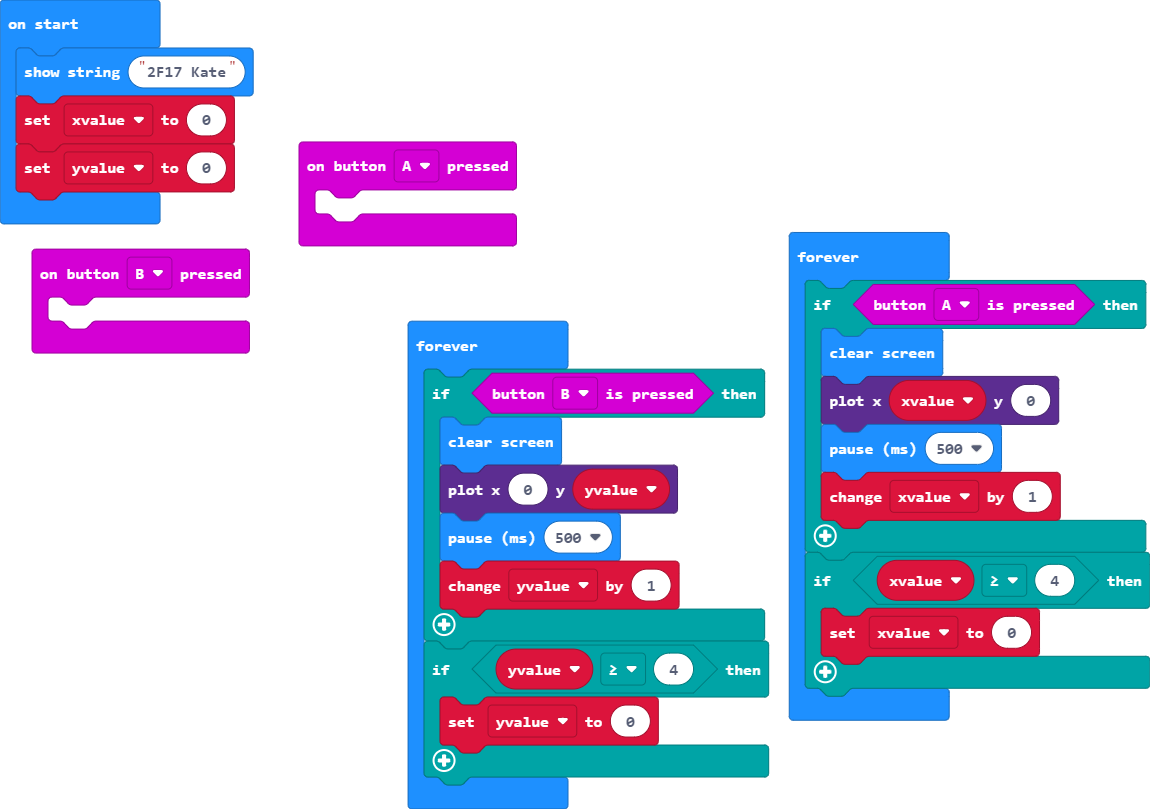
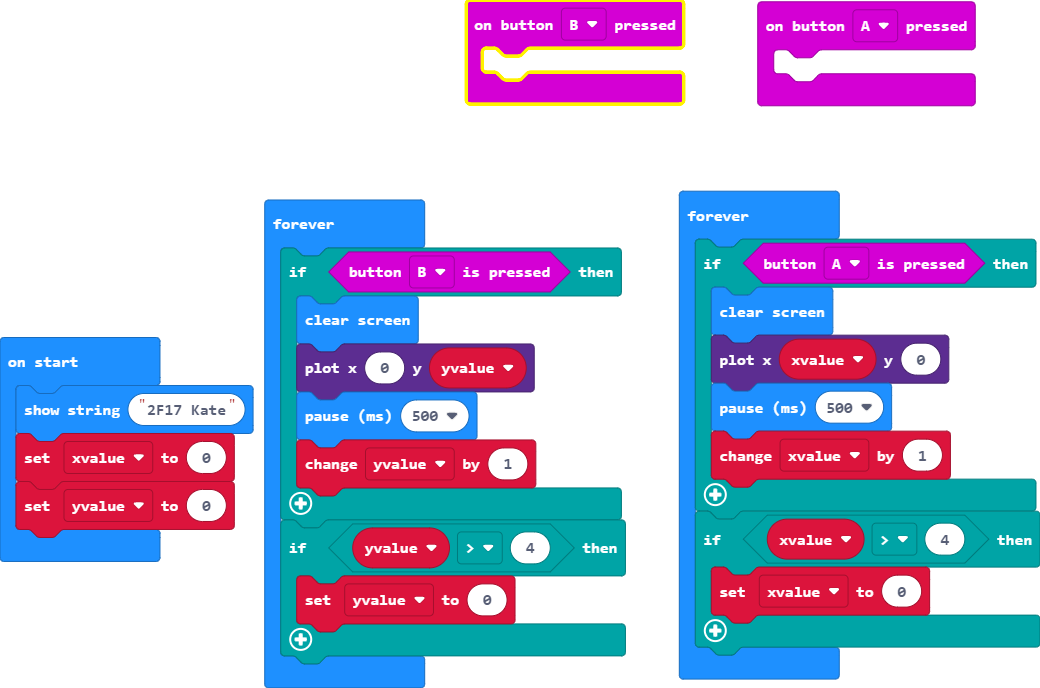
Update main.blocks, main.ts

diff --git a/main.ts b/main.ts
@@ -8,24 +8,24 @@ basic.showString("2F17 Kate")
 let xvalue = 0
 let yvalue = 0
 basic.forever(function () {
-    if (input.buttonIsPressed(Button.A)) {
-        basic.clearScreen()
-        led.plot(xvalue, 0)
-        basic.pause(500)
-        xvalue += 1
-    }
-    if (xvalue >= 4) {
-        xvalue = 0
-    }
-})
-basic.forever(function () {
     if (input.buttonIsPressed(Button.B)) {
         basic.clearScreen()
         led.plot(0, yvalue)
         basic.pause(500)
         yvalue += 1
     }
-    if (yvalue >= 4) {
+    if (yvalue > 4) {
         yvalue = 0
+    }
+})
+basic.forever(function () {
+    if (input.buttonIsPressed(Button.A)) {
+        basic.clearScreen()
+        led.plot(xvalue, 0)
+        basic.pause(500)
+        xvalue += 1
+    }
+    if (xvalue > 4) {
+        xvalue = 0
     }
 })
